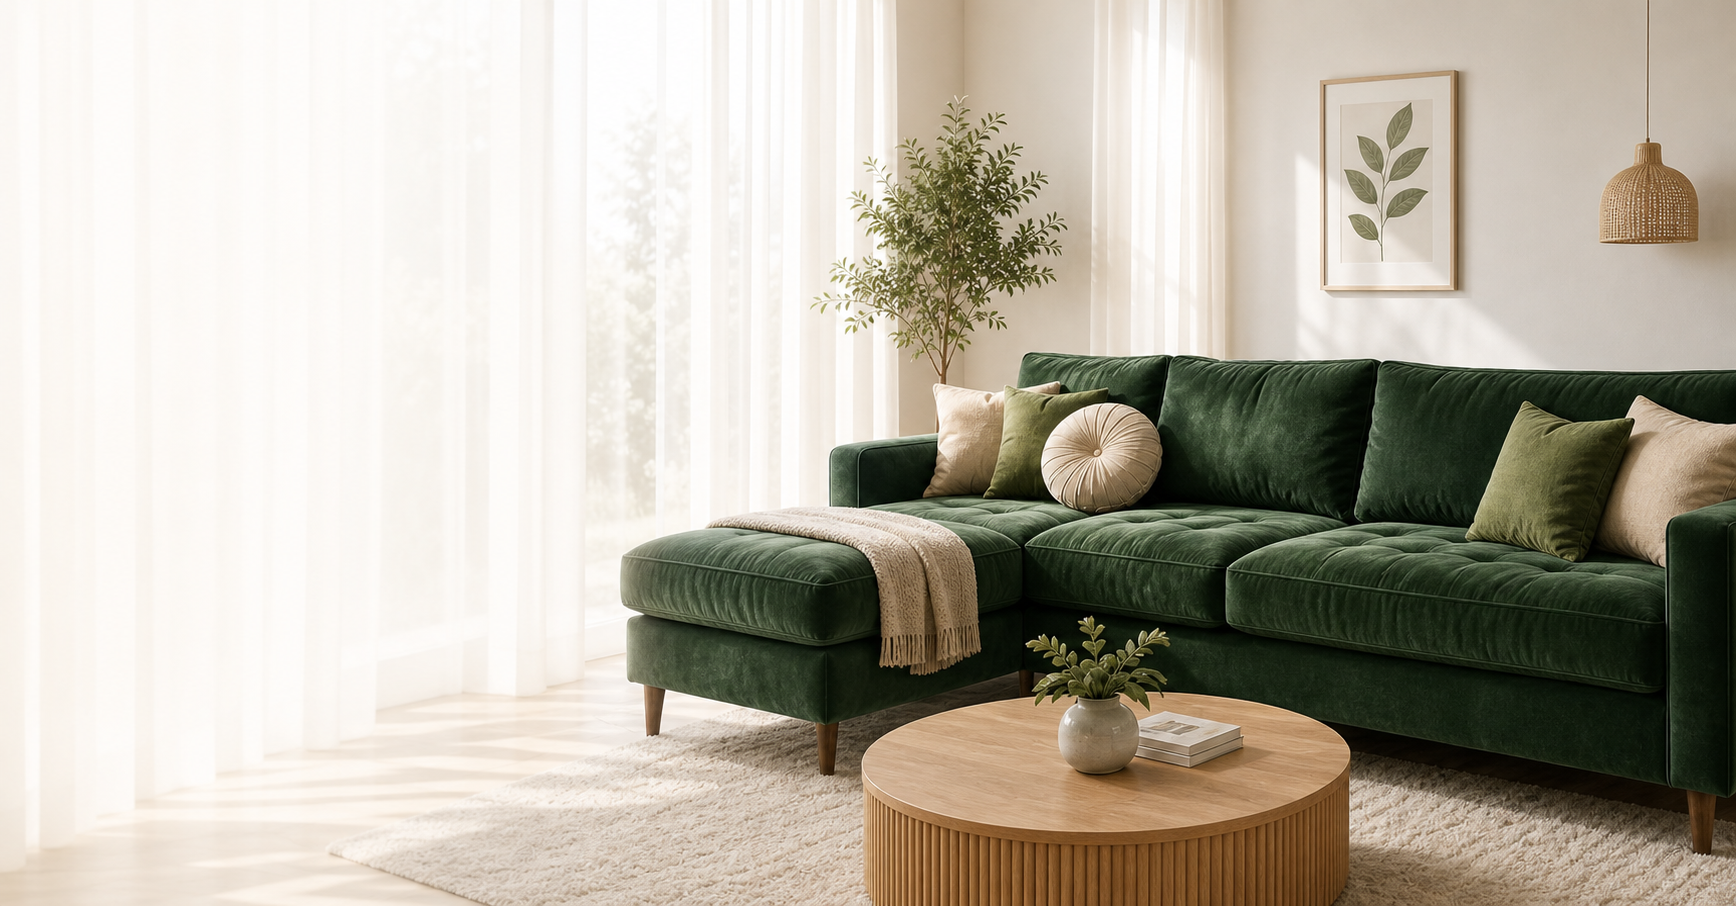
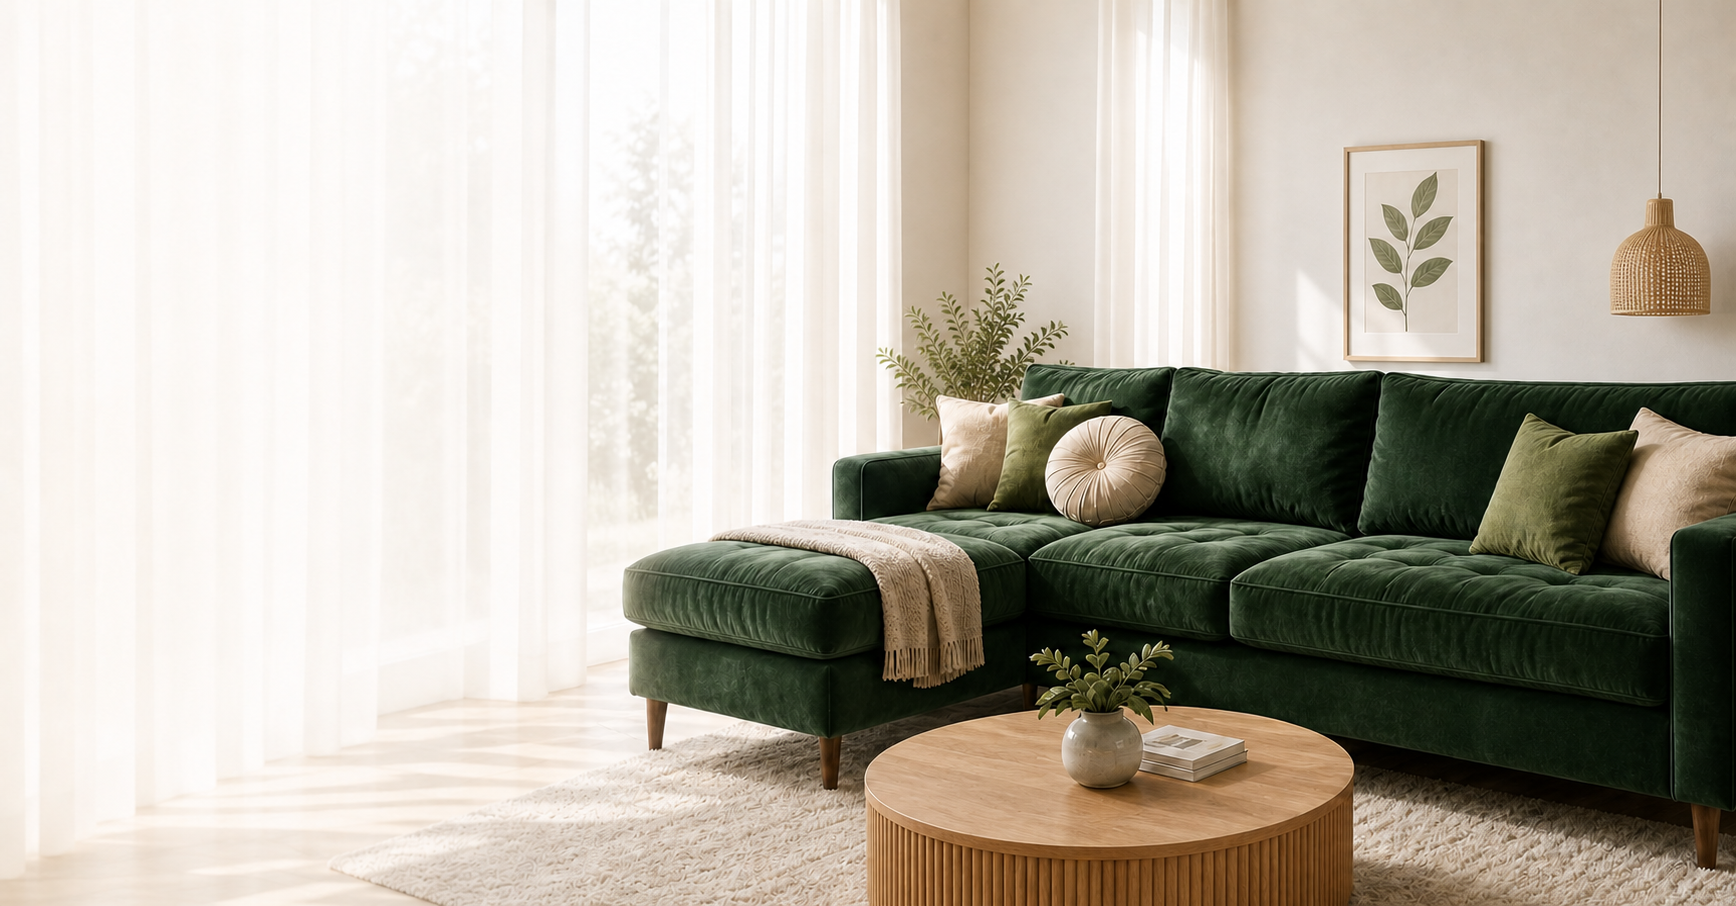
Match hero to reference design

diff --git a/index.html b/index.html
@@ -90,7 +90,7 @@
                 <div class="hero__wash" aria-hidden="true"></div>
 
                 <div class="hero__content">
-                    <p class="hero__eyebrow">Serving Mississauga &amp; the GTA</p>
+                    <p class="hero__eyebrow">Serving Mississauga &amp; the GTA Since 2012</p>
                     <span class="hero__eyebrow-line" aria-hidden="true"></span>
                     <h1 id="new-hero-heading" class="hero__title">
                         Expert Care For<br>
@@ -98,7 +98,7 @@
                         &amp; Carpets.
                         <span>Results You'll Feel.</span>
                     </h1>
-                    <p class="hero__description">Professional equipment, fabric-safe products, and meticulous techniques restore your home's comfort. From deep sofa cleaning to delicate rug care.</p>
+                    <p class="hero__description">Professional equipment, non-toxic products, and meticulous techniques restore your home's comfort. From deep sofa cleaning to delicate rug restoration.</p>
                     <div class="hero__actions">
                         <a class="button button--primary" href="#quote-form">
                             Get an instant estimate
@@ -109,15 +109,15 @@
                     <ul class="hero__benefits" aria-label="Service benefits">
                         <li>
                             <svg viewBox="0 0 24 24" aria-hidden="true"><path d="M11 20A7 7 0 0 1 9.8 6.1C15.5 5 18 2 18 2c1 5-1 11-7 12m-1 6c0-3 1-7 5-10"></path></svg>
-                            <span>Eco-friendly products</span>
+                            <span>Eco-Friendly<br>Products</span>
                         </li>
                         <li>
                             <svg viewBox="0 0 24 24" aria-hidden="true"><path d="M20 13c0 5-3.5 7.5-8 9-4.5-1.5-8-4-8-9V5l8-3 8 3v8Z"></path><path d="m9 12 2 2 4-4"></path></svg>
-                            <span>Safe for kids &amp; pets</span>
+                            <span>Safe for Kids<br>&amp; Pets</span>
                         </li>
                         <li>
-                            <svg viewBox="0 0 24 24" aria-hidden="true"><path d="M12 15 8.5 17l.9-4-3-2.7 4.1-.4L12 6l1.5 3.9 4.1.4-3 2.7.9 4Z"></path><path d="M12 22a10 10 0 1 0 0-20 10 10 0 0 0 0 20Z"></path></svg>
-                            <span>Satisfaction focused</span>
+                            <svg viewBox="0 0 24 24" aria-hidden="true"><path d="M3.85 8.62a4 4 0 0 1 4.78-4.77 4 4 0 0 1 6.74 0 4 4 0 0 1 4.78 4.78 4 4 0 0 1 0 6.74 4 4 0 0 1-4.77 4.78 4 4 0 0 1-6.75 0 4 4 0 0 1-4.78-4.77 4 4 0 0 1 0-6.76Z"></path><path d="m9 12 2 2 4-4"></path></svg>
+                            <span>Satisfaction<br>Guaranteed</span>
                         </li>
                     </ul>
                 </div>
@@ -135,7 +135,7 @@
                     <span class="compare__drag-label">Drag to see</span>
                     <span class="compare__line">
                         <span class="compare__handle">
-                            <svg viewBox="0 0 24 24" aria-hidden="true"><path d="M9 5h.01M9 12h.01M9 19h.01M15 5h.01M15 12h.01M15 19h.01"></path></svg>
+                            <img src="img/logo/header_logo.png" alt="" aria-hidden="true">
                         </span>
                     </span>
                     <input class="compare__range" id="compare-range" type="range" min="12" max="88" value="50" aria-label="Reveal the cleaned sofa">

diff --git a/css/styles.css b/css/styles.css
@@ -16,9 +16,11 @@
 .new-hero-root {
     --forest: #07543b;
     --forest-dark: #033f2d;
+    --font-sans: "Avenir Next", "Segoe UI", Arial, sans-serif;
+    --font-serif: "Iowan Old Style", "Palatino Linotype", Georgia, serif;
     width: 100%;
     color: #17231e;
-    font-family: Arial, Helvetica, sans-serif;
+    font-family: var(--font-sans);
 }
 
 .new-hero-root *,
@@ -89,7 +91,7 @@
     display: flex;
     align-items: center;
     gap: 28px;
-    padding: 0 28px 0 30px;
+    padding: 0 38px 0 40px;
     border: 1px solid rgba(255,255,255,.92);
     border-radius: 30px;
     background: rgba(255,255,255,.94);
@@ -106,8 +108,8 @@
 }
 
 .brand__mark {
-    width: 48px;
-    height: 48px;
+    width: 36px;
+    height: 36px;
     overflow: hidden;
     border-radius: 50%;
     background: #fff;
@@ -117,7 +119,7 @@
     width: 100%;
     height: 100%;
     object-fit: cover;
-    transform: scale(1.16);
+    transform: scale(1.04);
 }
 
 .brand__name {
@@ -126,8 +128,8 @@
 }
 
 .brand__name strong {
-    font-family: Georgia, "Times New Roman", serif;
-    font-size: 25px;
+    font-family: var(--font-serif);
+    font-size: 24px;
     font-weight: 400;
     letter-spacing: .04em;
     text-transform: uppercase;
@@ -135,7 +137,7 @@
 
 .brand__name small {
     margin-top: 6px;
-    font-family: Georgia, "Times New Roman", serif;
+    font-family: var(--font-serif);
     font-size: 10px;
     letter-spacing: .28em;
     text-align: center;
@@ -407,7 +409,7 @@
 .compare__image {
     position: absolute;
     inset: 0;
-    background-image: url("../img/gray_sofa_stain.png");
+    background-image: url("../images/fabric-compare.png");
     background-repeat: no-repeat;
     background-size: 200% 100%;
 }
@@ -481,16 +483,17 @@
     place-items: center;
     border: 5px solid #fff;
     border-radius: 50%;
-    background: var(--forest);
+    background: #fff;
     box-shadow: 0 4px 12px rgba(8,38,28,.25);
     color: #fff;
     transform: translate(-50%, -50%);
 }
 
-.compare__handle svg {
-    width: 20px;
-    height: 20px;
-    stroke-width: 3.2;
+.compare__handle img {
+    width: 39px;
+    height: 39px;
+    border-radius: 50%;
+    object-fit: cover;
 }
 
 .compare__range {
